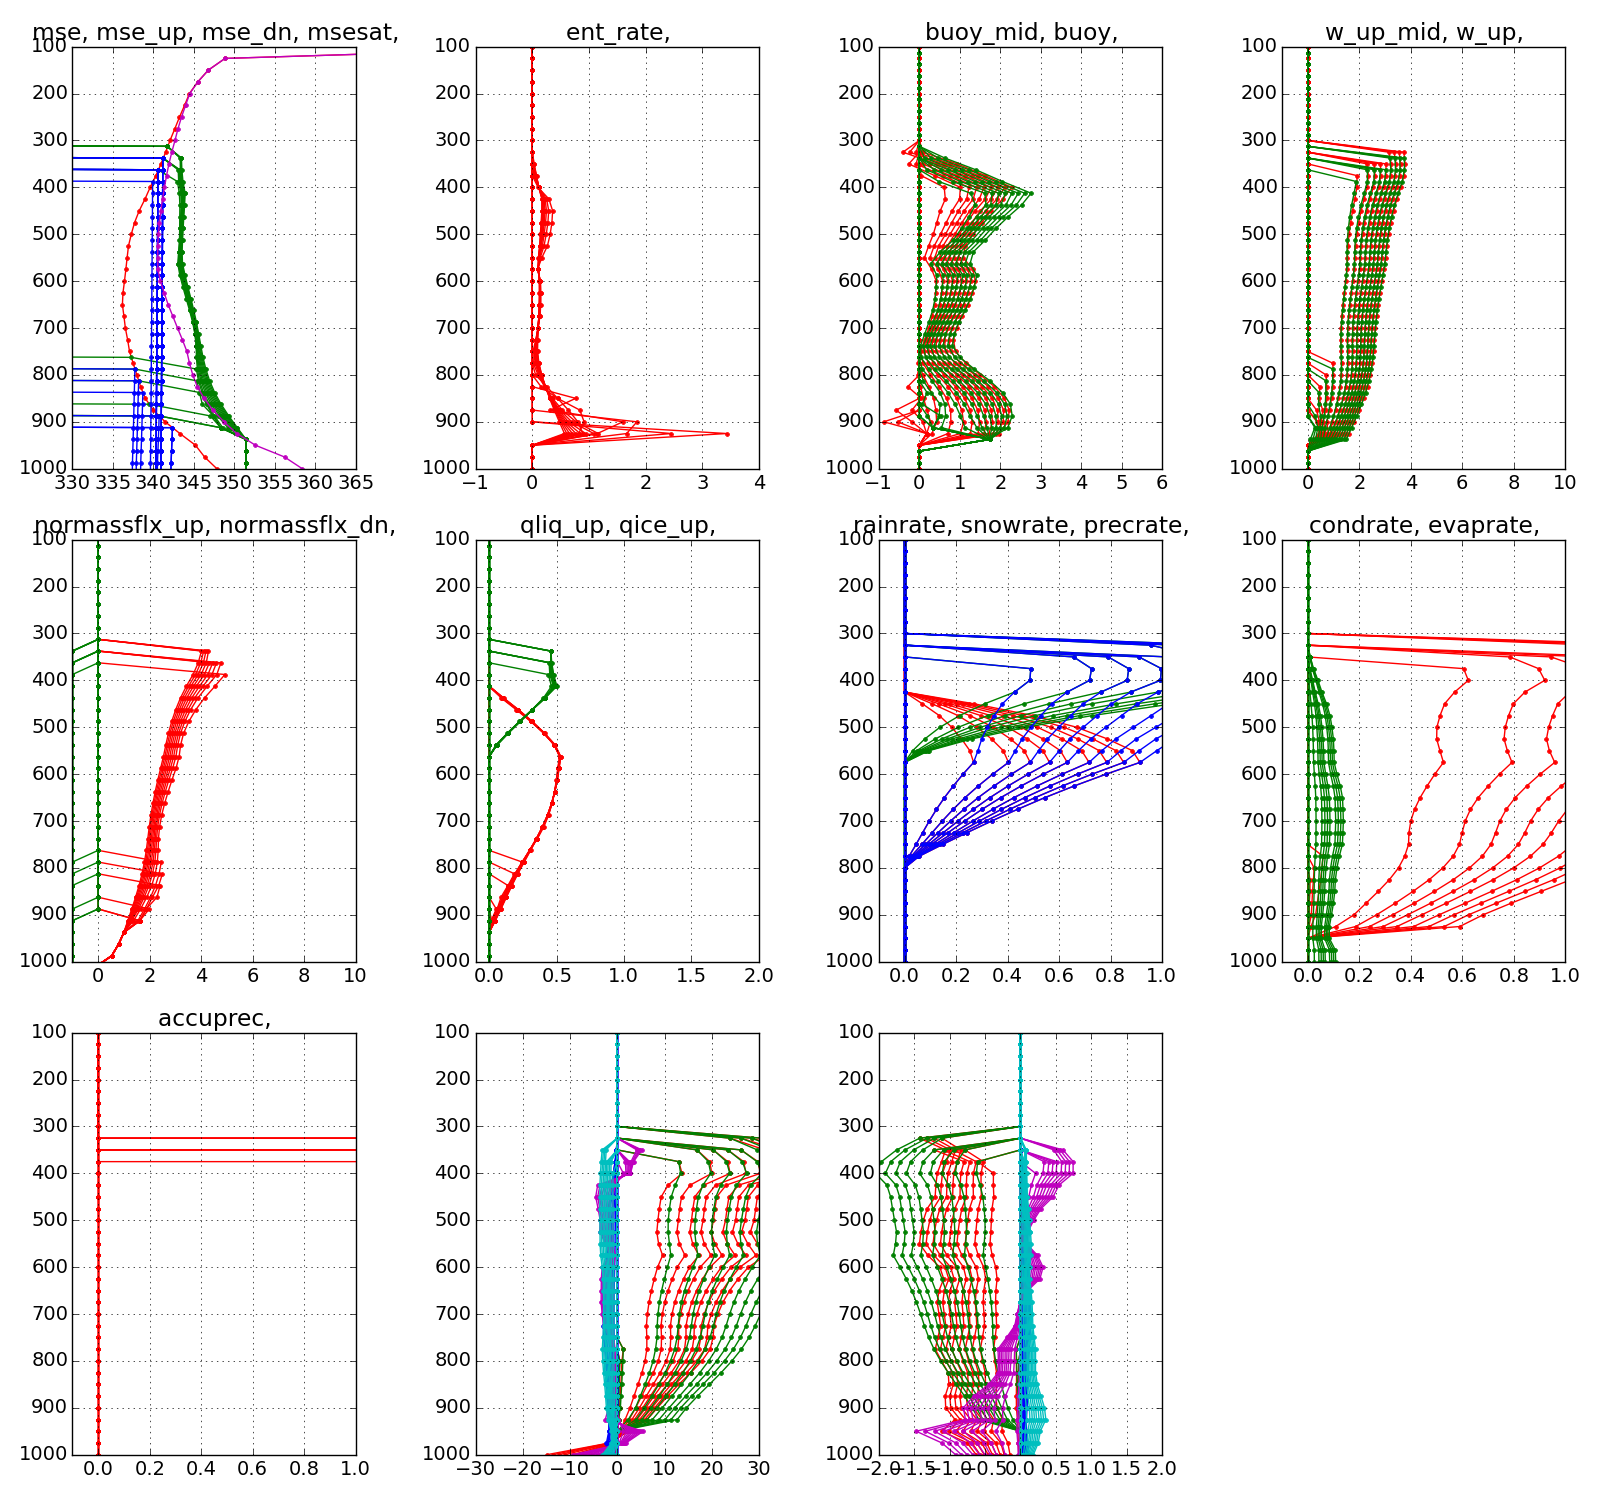
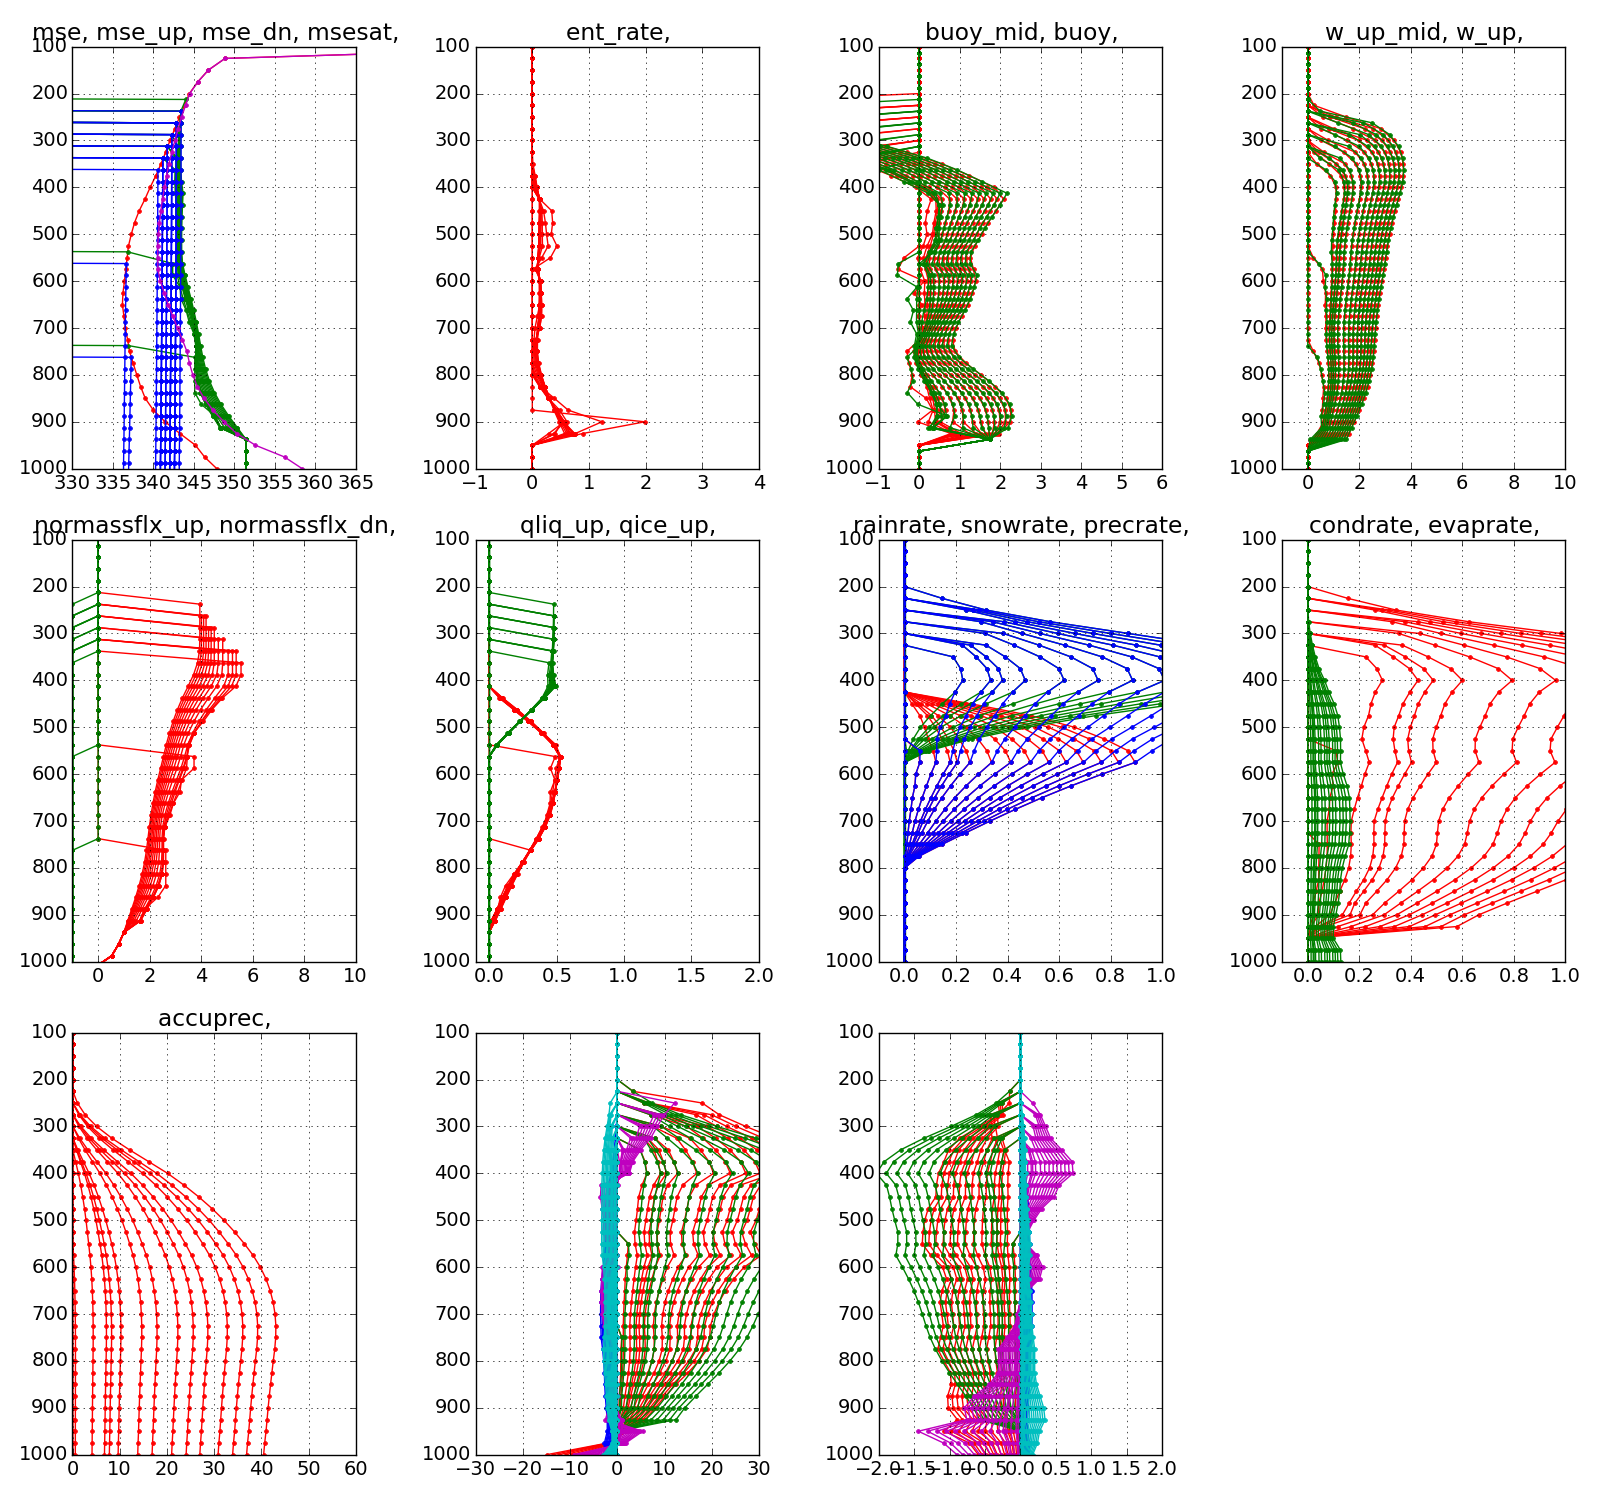
update

diff --git a/run/plot/pic_plumes.py b/run/plot/pic_plumes.py
@@ -27,7 +27,7 @@ def fncread(fn,var):
 #===============================================================================
 if __name__ == '__main__':
 
-    pin = '../../'
+    pin = '/T3/yhy/research/ECP/conv_scp/'
     fin = pin+'run/scmdiag-output.nc'
 
     lev  = fncread(fin, 'p')[0,:,0]/100.0
@@ -80,9 +80,9 @@ if __name__ == '__main__':
             xlim = [-0.1, 1]
         if i==9: 
             var  = ['accuprec']
-            fac  = [86400*1000]
+            fac  = [86400]
             icol = [-1,-1]
-            xlim = [-0.1, 1]
+            xlim = [-0.1, 60]
         if i==10: 
             var  = ['stend','stendcond','stendevap','stendtranup','stendtrandn']
             fac  = np.array([1,1,1,1,1]) /1004.0 * 86400
